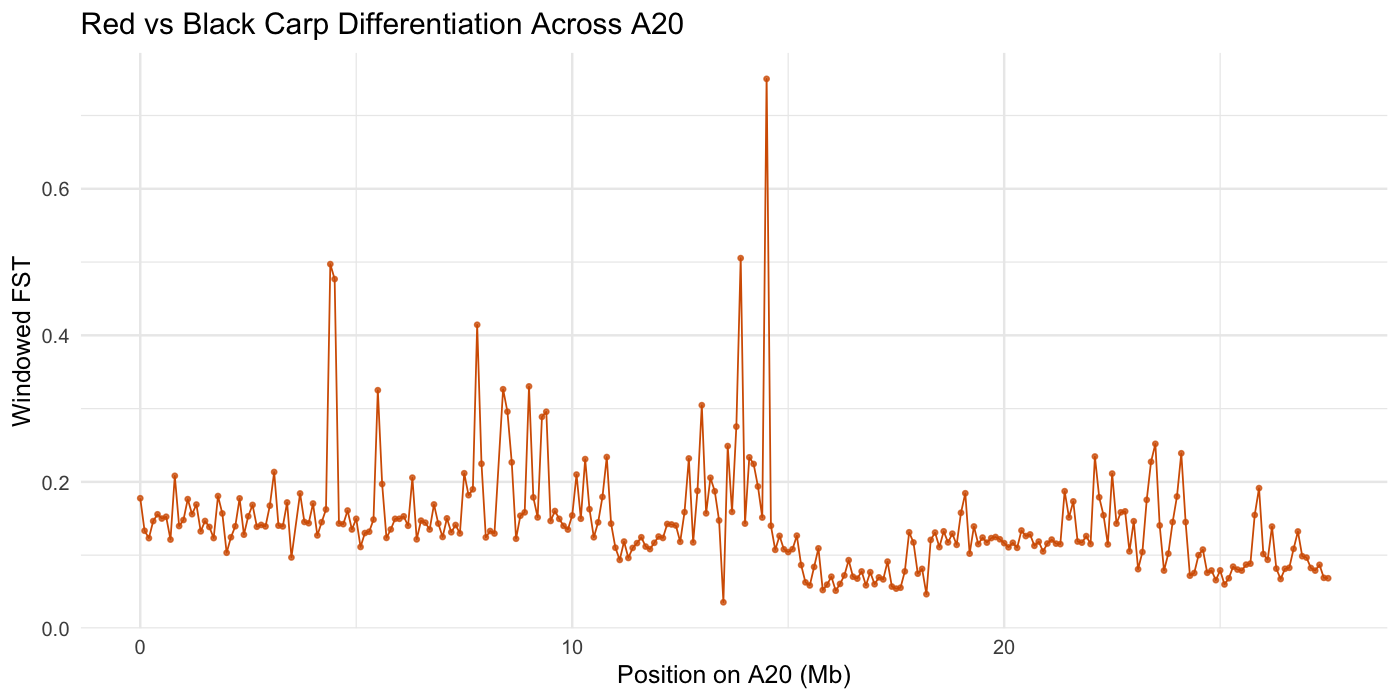
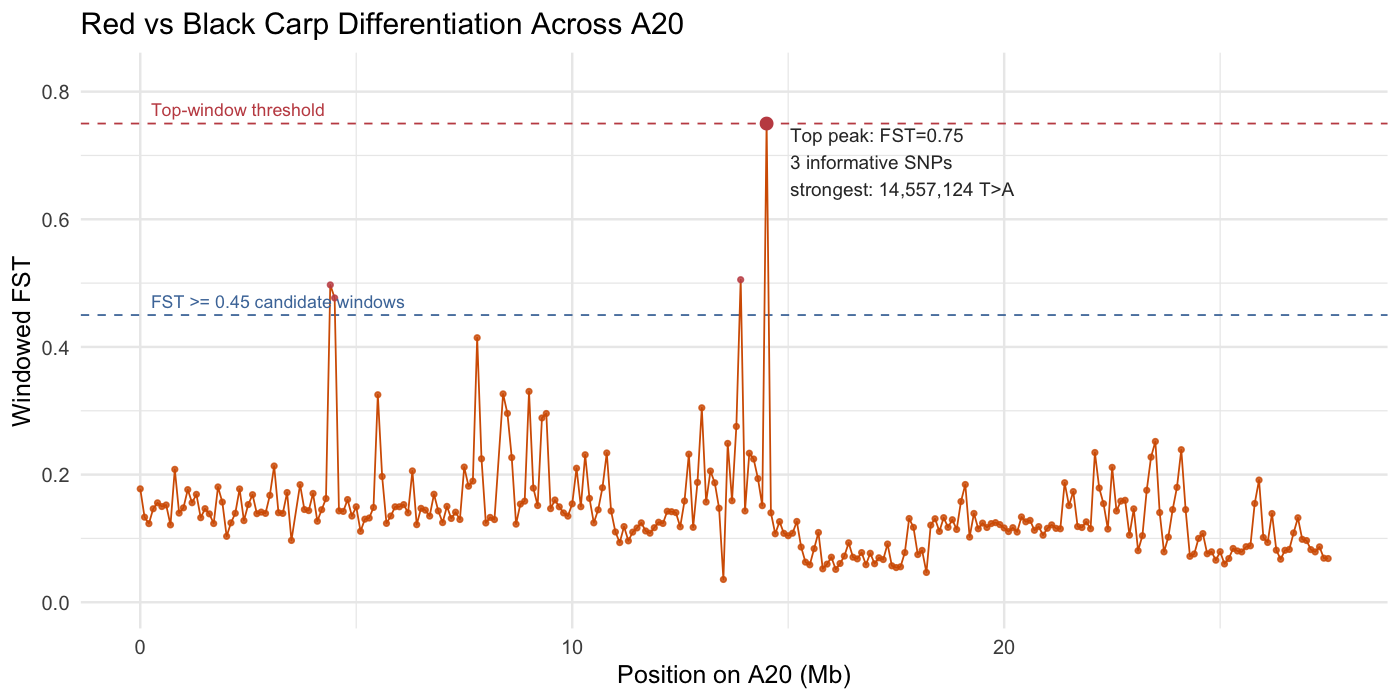
Improve A20 red black variant figures and candidate SNP interpretation

diff --git a/docs/a20_plot_findings.md b/docs/a20_plot_findings.md
@@ -17,6 +17,8 @@ The plots are best interpreted as chromosome-level evidence for genetic differen
 
 This plot shows FST across chromosome A20 using 100 kb genomic windows. FST measures genetic differentiation between groups. In this project, the two groups are red fish and black fish. A low FST value means the red and black groups have similar allele frequencies in that region. A high FST value means allele frequencies differ more strongly between the two color groups.
 
+The updated plot includes two dashed guide lines. The `0.75` line marks the strict top-peak threshold, and the `0.45` line marks a broader candidate-window threshold. The top peak is labeled directly on the plot with its strongest SNP: `NC_056591.1:14557124 T>A`.
+
 The strongest window is:
 
 | Chromosome | Window start | Window end | Informative SNPs | Mean absolute allele-frequency difference | FST |
@@ -36,6 +38,8 @@ Other high-FST windows were:
 | NC_056591.1 / A20 | 4,500,001 | 4,600,000 | 40 | 0.477 |
 
 These are also possible regions of red-vs-black differentiation on A20, and they have more informative SNPs than the top 14.5-14.6 Mb window.
+
+Using a broader FST threshold of `0.45` gives four candidate windows instead of one. Together, those four windows contain 95 informative SNPs for the FST calculation and 16 strong SNPs with `|red allele frequency - black allele frequency| >= 0.75`.
 
 ## Candidate Mutation And Annotation In The FST > 0.6 Window
 
@@ -137,16 +141,64 @@ Regions with unusually low SNP density can occur because of low read depth, repe
 
 **File:** `results/gatk_chrA20/plots/a20_variant_summary.png`
 
-This summary plot reports the main contents of the filtered A20 SNP dataset:
+This plot was updated to make it biologically relevant to the red-vs-black comparison. Instead of only showing the number of samples and total SNPs, it now groups A20 SNPs by whether the alternate allele is more common in red fish, more common in black fish, similar between groups, or missing from one color group.
 
-| Category | Value |
-|---|---:|
-| PASS biallelic SNPs | 109,849 |
-| Samples | 10 |
-| Red samples | 5 |
-| Black samples | 5 |
+| Category | SNPs | Percent |
+|---|---:|---:|
+| Higher alternate allele frequency in red | 11,346 | 10.33 |
+| Higher alternate allele frequency in black | 11,137 | 10.14 |
+| Similar red and black allele frequency | 84,889 | 77.28 |
+| Missing one color group | 2,477 | 2.25 |
 
-This confirms that the plotting dataset contains a substantial number of high-confidence SNPs across chromosome A20 and the intended sample balance of 5 red and 5 black fish.
+Most SNPs are similar between red and black fish, which is expected because the two groups are the same species and share most of their genome. The biologically interesting SNPs are the smaller sets where allele frequencies differ between red and black. This makes the summary plot better aligned with the project question.
+
+The old dataset-count summary is still retained in:
+
+```text
+results/gatk_chrA20/tables/a20_dataset_summary.tsv
+```
+
+The table corresponding to the updated plot is:
+
+```text
+results/gatk_chrA20/tables/a20_variant_summary.tsv
+```
+
+## Figure 7. FST Threshold Comparison
+
+![FST threshold comparison for chromosome A20](../results/gatk_chrA20/plots/a20_fst_threshold_comparison.png)
+
+**File:** `results/gatk_chrA20/plots/a20_fst_threshold_comparison.png`
+
+This plot compares two ways of choosing candidate regions from the FST scan:
+
+| FST threshold | Candidate 100 kb windows | Informative SNPs in candidate windows | Strong SNPs with `|Red AF - Black AF| >= 0.75` |
+|---:|---:|---:|---:|
+| 0.75 | 1 | 3 | 1 |
+| 0.45 | 4 | 95 | 16 |
+
+The strict `0.75` threshold identifies only the highest peak. This is useful because it highlights the most extreme red-vs-black differentiation on A20, but it is fragile because it is based on only 3 informative SNPs.
+
+The broader `0.45` threshold identifies four candidate windows. This is more useful for biological interpretation because it captures regions with more SNP support:
+
+| Candidate region | FST | Informative SNPs | Nearby annotation | Interpretation |
+|---|---:|---:|---|---|
+| A20:4.4-4.5 Mb | 0.497 | 25 | `LOC109112681`, AT-rich interactive domain-containing protein 1B-like | Candidate differentiated block; possible linked or regulatory variation, not a proven color mutation. |
+| A20:4.5-4.6 Mb | 0.477 | 40 | `LOC109112681` and nearby pseudogene-rich sequence | Adjacent to the 4.4-4.5 Mb window, possibly part of the same broader differentiated region. |
+| A20:13.9-14.0 Mb | 0.505 | 27 | `LOC109112719`, uncharacterized protein-coding gene; nearby cytochrome P450 2J3-like | Candidate region with more SNP support than the top peak, but no confirmed pigmentation gene from this analysis alone. |
+| A20:14.5-14.6 Mb | 0.750 | 3 | forkhead box protein Q1-like and F2-like genes nearby; pseudogene `LOC122149054` | Highest peak, strongest SNP `NC_056591.1:14557124 T>A`, but limited by few informative SNPs. |
+
+The candidate SNP table for the broader threshold is:
+
+```text
+results/gatk_chrA20/tables/a20_candidate_snps_fst_ge_0_45_abs_af_diff_ge_0_75.tsv
+```
+
+The candidate region table is:
+
+```text
+results/gatk_chrA20/tables/a20_candidate_regions_fst_ge_0_45.tsv
+```
 
 ## Overall Findings
 
@@ -160,9 +212,8 @@ The chromosome A20 analysis found one standout window with FST above 0.6:
 | Nearby annotation | The candidate SNP is upstream of pseudogene `LOC122149054`; nearby SNPs also fall in a pseudogene-rich region. The protein-coding gene `LOC109045109`, annotated as forkhead box protein F2-like, is in the same 100 kb window but not directly hit by the differentiated SNPs. |
 | PCA result | Red and black fish do not fully separate across all A20 SNPs, suggesting local differentiation rather than chromosome-wide separation. |
 
-The best biological interpretation is that chromosome A20 contains candidate regions where red and black fish differ genetically, especially near 14.5-14.6 Mb. The most notable candidate mutation from the high-FST window is `NC_056591.1:14557124 T>A`, but the evidence is not strong enough to claim it causes red or black coloration. It is better described as a candidate marker near pseudogene-rich sequence and near a forkhead box F2-like gene.
+The best biological interpretation is that chromosome A20 contains candidate regions where red and black fish differ genetically. The strict top signal is near 14.5-14.6 Mb, while the broader `FST >= 0.45` threshold adds candidate regions near 4.4-4.6 Mb and 13.9-14.0 Mb. The most notable candidate mutation from the top high-FST window is `NC_056591.1:14557124 T>A`, but the evidence is not strong enough to claim it causes red or black coloration. It is better described as a candidate marker near pseudogene-rich sequence and near forkhead box gene annotations.
 
 For a final project presentation, the most defensible wording is:
 
-> On chromosome A20, the red and black groups showed a high-FST candidate region at 14.5-14.6 Mb. The strongest SNP in this region was `NC_056591.1:14557124 T>A`, where the alternate allele was observed in the black group but not the red group among called genotypes. This SNP is near pseudogene `LOC122149054` and in the same 100 kb window as a forkhead box F2-like gene. Because the signal is based on only a few informative SNPs and limited genotype calls, it should be interpreted as a candidate red-vs-black differentiation region rather than a confirmed causal pigmentation mutation.
-
+> On chromosome A20, the red and black groups showed several candidate differentiation regions. The strongest FST peak was at 14.5-14.6 Mb, where the strongest SNP was `NC_056591.1:14557124 T>A`. The broader `FST >= 0.45` threshold identified four candidate windows and 16 strong SNPs with large red-vs-black allele-frequency differences. These SNPs may tag regions linked to color-group differences, but because several signals have limited called genotypes and the analysis covers only chromosome A20, they should be interpreted as candidate markers rather than confirmed causal pigmentation mutations.

diff --git a/results/gatk_chrA20/plots/a20_plot_findings.md b/results/gatk_chrA20/plots/a20_plot_findings.md
@@ -17,6 +17,8 @@ The plots are best interpreted as chromosome-level evidence for genetic differen
 
 This plot shows FST across chromosome A20 using 100 kb genomic windows. FST measures genetic differentiation between groups. In this project, the two groups are red fish and black fish. A low FST value means the red and black groups have similar allele frequencies in that region. A high FST value means allele frequencies differ more strongly between the two color groups.
 
+The updated plot includes two dashed guide lines. The `0.75` line marks the strict top-peak threshold, and the `0.45` line marks a broader candidate-window threshold. The top peak is labeled directly on the plot with its strongest SNP: `NC_056591.1:14557124 T>A`.
+
 The strongest window is:
 
 | Chromosome | Window start | Window end | Informative SNPs | Mean absolute allele-frequency difference | FST |
@@ -36,6 +38,8 @@ Other high-FST windows were:
 | NC_056591.1 / A20 | 4,500,001 | 4,600,000 | 40 | 0.477 |
 
 These are also possible regions of red-vs-black differentiation on A20, and they have more informative SNPs than the top 14.5-14.6 Mb window.
+
+Using a broader FST threshold of `0.45` gives four candidate windows instead of one. Together, those four windows contain 95 informative SNPs for the FST calculation and 16 strong SNPs with `|red allele frequency - black allele frequency| >= 0.75`.
 
 ## Candidate Mutation And Annotation In The FST > 0.6 Window
 
@@ -137,16 +141,64 @@ Regions with unusually low SNP density can occur because of low read depth, repe
 
 **File:** `a20_variant_summary.png`
 
-This summary plot reports the main contents of the filtered A20 SNP dataset:
+This plot was updated to make it biologically relevant to the red-vs-black comparison. Instead of only showing the number of samples and total SNPs, it now groups A20 SNPs by whether the alternate allele is more common in red fish, more common in black fish, similar between groups, or missing from one color group.
 
-| Category | Value |
-|---|---:|
-| PASS biallelic SNPs | 109,849 |
-| Samples | 10 |
-| Red samples | 5 |
-| Black samples | 5 |
+| Category | SNPs | Percent |
+|---|---:|---:|
+| Higher alternate allele frequency in red | 11,346 | 10.33 |
+| Higher alternate allele frequency in black | 11,137 | 10.14 |
+| Similar red and black allele frequency | 84,889 | 77.28 |
+| Missing one color group | 2,477 | 2.25 |
 
-This confirms that the plotting dataset contains a substantial number of high-confidence SNPs across chromosome A20 and the intended sample balance of 5 red and 5 black fish.
+Most SNPs are similar between red and black fish, which is expected because the two groups are the same species and share most of their genome. The biologically interesting SNPs are the smaller sets where allele frequencies differ between red and black. This makes the summary plot better aligned with the project question.
+
+The old dataset-count summary is still retained in:
+
+```text
+results/gatk_chrA20/tables/a20_dataset_summary.tsv
+```
+
+The table corresponding to the updated plot is:
+
+```text
+results/gatk_chrA20/tables/a20_variant_summary.tsv
+```
+
+## Figure 7. FST Threshold Comparison
+
+![FST threshold comparison for chromosome A20](a20_fst_threshold_comparison.png)
+
+**File:** `a20_fst_threshold_comparison.png`
+
+This plot compares two ways of choosing candidate regions from the FST scan:
+
+| FST threshold | Candidate 100 kb windows | Informative SNPs in candidate windows | Strong SNPs with `|Red AF - Black AF| >= 0.75` |
+|---:|---:|---:|---:|
+| 0.75 | 1 | 3 | 1 |
+| 0.45 | 4 | 95 | 16 |
+
+The strict `0.75` threshold identifies only the highest peak. This is useful because it highlights the most extreme red-vs-black differentiation on A20, but it is fragile because it is based on only 3 informative SNPs.
+
+The broader `0.45` threshold identifies four candidate windows. This is more useful for biological interpretation because it captures regions with more SNP support:
+
+| Candidate region | FST | Informative SNPs | Nearby annotation | Interpretation |
+|---|---:|---:|---|---|
+| A20:4.4-4.5 Mb | 0.497 | 25 | `LOC109112681`, AT-rich interactive domain-containing protein 1B-like | Candidate differentiated block; possible linked or regulatory variation, not a proven color mutation. |
+| A20:4.5-4.6 Mb | 0.477 | 40 | `LOC109112681` and nearby pseudogene-rich sequence | Adjacent to the 4.4-4.5 Mb window, possibly part of the same broader differentiated region. |
+| A20:13.9-14.0 Mb | 0.505 | 27 | `LOC109112719`, uncharacterized protein-coding gene; nearby cytochrome P450 2J3-like | Candidate region with more SNP support than the top peak, but no confirmed pigmentation gene from this analysis alone. |
+| A20:14.5-14.6 Mb | 0.750 | 3 | forkhead box protein Q1-like and F2-like genes nearby; pseudogene `LOC122149054` | Highest peak, strongest SNP `NC_056591.1:14557124 T>A`, but limited by few informative SNPs. |
+
+The candidate SNP table for the broader threshold is:
+
+```text
+results/gatk_chrA20/tables/a20_candidate_snps_fst_ge_0_45_abs_af_diff_ge_0_75.tsv
+```
+
+The candidate region table is:
+
+```text
+results/gatk_chrA20/tables/a20_candidate_regions_fst_ge_0_45.tsv
+```
 
 ## Overall Findings
 
@@ -160,9 +212,8 @@ The chromosome A20 analysis found one standout window with FST above 0.6:
 | Nearby annotation | The candidate SNP is upstream of pseudogene `LOC122149054`; nearby SNPs also fall in a pseudogene-rich region. The protein-coding gene `LOC109045109`, annotated as forkhead box protein F2-like, is in the same 100 kb window but not directly hit by the differentiated SNPs. |
 | PCA result | Red and black fish do not fully separate across all A20 SNPs, suggesting local differentiation rather than chromosome-wide separation. |
 
-The best biological interpretation is that chromosome A20 contains candidate regions where red and black fish differ genetically, especially near 14.5-14.6 Mb. The most notable candidate mutation from the high-FST window is `NC_056591.1:14557124 T>A`, but the evidence is not strong enough to claim it causes red or black coloration. It is better described as a candidate marker near pseudogene-rich sequence and near a forkhead box F2-like gene.
+The best biological interpretation is that chromosome A20 contains candidate regions where red and black fish differ genetically. The strict top signal is near 14.5-14.6 Mb, while the broader `FST >= 0.45` threshold adds candidate regions near 4.4-4.6 Mb and 13.9-14.0 Mb. The most notable candidate mutation from the top high-FST window is `NC_056591.1:14557124 T>A`, but the evidence is not strong enough to claim it causes red or black coloration. It is better described as a candidate marker near pseudogene-rich sequence and near forkhead box gene annotations.
 
 For a final project presentation, the most defensible wording is:
 
-> On chromosome A20, the red and black groups showed a high-FST candidate region at 14.5-14.6 Mb. The strongest SNP in this region was `NC_056591.1:14557124 T>A`, where the alternate allele was observed in the black group but not the red group among called genotypes. This SNP is near pseudogene `LOC122149054` and in the same 100 kb window as a forkhead box F2-like gene. Because the signal is based on only a few informative SNPs and limited genotype calls, it should be interpreted as a candidate red-vs-black differentiation region rather than a confirmed causal pigmentation mutation.
-
+> On chromosome A20, the red and black groups showed several candidate differentiation regions. The strongest FST peak was at 14.5-14.6 Mb, where the strongest SNP was `NC_056591.1:14557124 T>A`. The broader `FST >= 0.45` threshold identified four candidate windows and 16 strong SNPs with large red-vs-black allele-frequency differences. These SNPs may tag regions linked to color-group differences, but because several signals have limited called genotypes and the analysis covers only chromosome A20, they should be interpreted as candidate markers rather than confirmed causal pigmentation mutations.

diff --git a/README.md b/README.md
@@ -79,7 +79,7 @@ The reference genome used was the RefSeq *Cyprinus carpio* assembly:
 GCF_018340385.1_ASM1834038v1
 ```
 
-Reference files generated during reproduction:
+Important local reference files:
 
 ```text
 references/carp.fa
@@ -124,13 +124,7 @@ Main tools:
 | VCF filtering/summaries | BCFtools | Filter, index, and summarize VCFs |
 | Plotting | R / tidyverse / ggplot2 | Make A20 summary plots |
 
-Create the environment with:
-
-```bash
-bash scripts/setup_environment.sh
-```
-
-Run commands inside the environment with the portable wrapper:
+Run commands inside the environment with:
 
 ```bash
 bash scripts/run_in_env.sh <command>
@@ -240,6 +234,10 @@ results/gatk_chrA20/tables/a20_site_allele_frequencies.tsv
 results/gatk_chrA20/tables/a20_pca_samples.tsv
 results/gatk_chrA20/tables/a20_snp_density_100kb.tsv
 results/gatk_chrA20/tables/a20_variant_summary.tsv
+results/gatk_chrA20/tables/a20_fst_threshold_summary.tsv
+results/gatk_chrA20/tables/a20_top_fst_window_informative_snps.tsv
+results/gatk_chrA20/tables/a20_candidate_regions_fst_ge_0_45.tsv
+results/gatk_chrA20/tables/a20_candidate_snps_fst_ge_0_45_abs_af_diff_ge_0_75.tsv
 ```
 
 Main figures:
@@ -251,6 +249,7 @@ results/gatk_chrA20/plots/a20_top_af_differences.png
 results/gatk_chrA20/plots/a20_pca_red_black.png
 results/gatk_chrA20/plots/a20_snp_density_100kb.png
 results/gatk_chrA20/plots/a20_variant_summary.png
+results/gatk_chrA20/plots/a20_fst_threshold_comparison.png
 ```
 
 Detailed plot interpretation:
@@ -271,6 +270,12 @@ The A20 analysis found one standout 100 kb window with FST above 0.6:
 This was the strongest candidate red-vs-black differentiated region on
 chromosome A20. However, the window only had 3 informative SNPs contributing to
 the FST calculation, so the signal is interesting but fragile.
+
+The updated FST plot labels this peak directly and includes two visual guide
+thresholds. The strict `FST >= 0.75` threshold captures the single top window,
+while a broader `FST >= 0.45` threshold captures four candidate windows, 95
+informative SNPs, and 16 strong SNPs with `|red allele frequency - black allele
+frequency| >= 0.75`.
 
 The most notable SNP in that region was:
 
@@ -300,12 +305,13 @@ directly hit the coding sequence of this gene.
 
 The most defensible interpretation is:
 
-> Chromosome A20 contains a candidate red-vs-black differentiated region at
-> 14.5-14.6 Mb. The strongest candidate SNP in that region is
+> Chromosome A20 contains several candidate red-vs-black differentiated regions.
+> The strongest peak is at 14.5-14.6 Mb, where the strongest candidate SNP is
 > `NC_056591.1:14557124 T>A`, but the evidence is limited by missing genotype
-> calls and a small number of informative SNPs. The region may tag linked
-> variation near pseudogene-rich sequence and near a forkhead box F2-like gene,
-> but it should not be claimed as a proven pigmentation mutation.
+> calls and a small number of informative SNPs. A broader threshold also points
+> to candidate regions near 4.4-4.6 Mb and 13.9-14.0 Mb. These signals may tag
+> linked variation near color-associated regions, but they should not be claimed
+> as proven pigmentation mutations.
 
 ## Plot-Level Findings
 
@@ -319,6 +325,11 @@ The allele-frequency difference plot supported the FST result because the same
 The top allele-frequency difference plot highlighted individual SNPs with large
 red-vs-black differences, but several of these sites had limited genotype calls.
 This is why window-level and annotation-level interpretation are important.
+
+The updated variant summary plot now separates SNPs into red-higher,
+black-higher, similar, and missing-one-color-group categories. This makes the
+summary figure reflect the red-vs-black research question instead of only
+showing total dataset counts.
 
 The PCA plot did not separate all red samples from all black samples. Some red
 and black fish were close together in PCA space. This suggests that color group

diff --git a/docs/output_files_table.md b/docs/output_files_table.md
@@ -31,6 +31,15 @@ This table explains the main files created so far in the red vs black *Cyprinus 
 | `results/picard/<RUN>.dedup.bam` | Picard `MarkDuplicates` | BAM file where duplicate reads have been marked | Binary BAM. Duplicate reads have SAM flag `1024`; inspect with `samtools view` or count with `samtools flagstat` | Main GATK input for variant calling | Yes, key downstream input |
 | `results/picard/<RUN>.dedup.bai` | Picard `MarkDuplicates` with `CREATE_INDEX=true` | Index for duplicate-marked BAM | Binary index file; not human-readable. Test with `samtools idxstats results/picard/SRR18681855.dedup.bam` | Required for GATK to access the BAM efficiently | Yes, needed with dedup BAM |
 | `results/picard/<RUN>.dup_metrics.txt` | Picard `MarkDuplicates` | Duplicate metrics summary | Plain text. Contains a metrics table with columns such as `LIBRARY`, `UNPAIRED_READS_EXAMINED`, `READ_PAIRS_EXAMINED`, and `PERCENT_DUPLICATION` | Reports duplicate rate and library complexity information | Yes, QC/report source |
+| `results/gatk_chrA20/plots/a20_windowed_fst_100kb.png` | `scripts/plot_a20_variants.R` | Windowed FST plot across chromosome A20 with `0.45` and `0.75` guide thresholds | PNG image. Open in a browser or image viewer | Shows candidate red-vs-black differentiation regions and labels the top peak with `NC_056591.1:14557124 T>A` | Yes, main result figure |
+| `results/gatk_chrA20/plots/a20_variant_summary.png` | `scripts/plot_a20_variants.R` | Red-vs-black SNP category summary | PNG image. Open in a browser or image viewer | Shows whether A20 SNPs have higher alternate allele frequency in red, higher in black, similar frequencies, or missing one color group | Yes, main summary figure |
+| `results/gatk_chrA20/plots/a20_fst_threshold_comparison.png` | `scripts/plot_a20_variants.R` | Compares strict `FST >= 0.75` and broader `FST >= 0.45` candidate thresholds | PNG image. Open in a browser or image viewer | Shows how many candidate windows, informative SNPs, and strong SNPs are recovered at each threshold | Yes, main result figure |
+| `results/gatk_chrA20/tables/a20_variant_summary.tsv` | `scripts/plot_a20_variants.R` | Table behind the updated red-vs-black SNP category plot | Tab-delimited text with category, SNP count, and percent columns | Documents the data behind `a20_variant_summary.png` | Yes, figure source |
+| `results/gatk_chrA20/tables/a20_dataset_summary.tsv` | `scripts/plot_a20_variants.R` | Basic dataset counts for A20 | Tab-delimited text with total PASS biallelic SNPs and sample counts | Preserves the old dataset-count summary separately from the red-vs-black biological summary | Useful supporting table |
+| `results/gatk_chrA20/tables/a20_top_fst_window_informative_snps.tsv` | `scripts/plot_a20_variants.R` | The 3 informative SNPs that produced the top `FST = 0.75` window | Tab-delimited text with position, alleles, red/black called alleles, and red/black allele frequencies | Identifies the specific SNPs behind the high FST peak | Yes, main result table |
+| `results/gatk_chrA20/tables/a20_fst_threshold_summary.tsv` | `scripts/plot_a20_variants.R` | Summary of candidate yield at `FST >= 0.75` vs `FST >= 0.45` | Tab-delimited text with threshold, number of windows, informative SNPs, and strong SNPs | Supports the threshold comparison plot | Yes, figure source |
+| `results/gatk_chrA20/tables/a20_candidate_regions_fst_ge_0_45.tsv` | `scripts/plot_a20_variants.R` | Candidate A20 regions found using the broader `FST >= 0.45` threshold | Tab-delimited text with region, FST, SNP count, nearby annotation, and interpretation | Connects candidate windows back to possible biological meaning for red vs black coloration | Yes, interpretation table |
+| `results/gatk_chrA20/tables/a20_candidate_snps_fst_ge_0_45_abs_af_diff_ge_0_75.tsv` | `scripts/plot_a20_variants.R` | Strong candidate SNPs from broader high-FST windows | Tab-delimited text with SNP position, ref/alt alleles, red/black allele frequencies, region annotation, and interpretation | Lists candidate SNP markers with large red-vs-black allele-frequency differences | Yes, main result table |
 | `.DS_Store` | macOS Finder | macOS metadata file | Binary macOS folder-view metadata; not part of the analysis | Not part of the analysis | No, ignore |
 
 ## Which Files Matter Most Going Forward